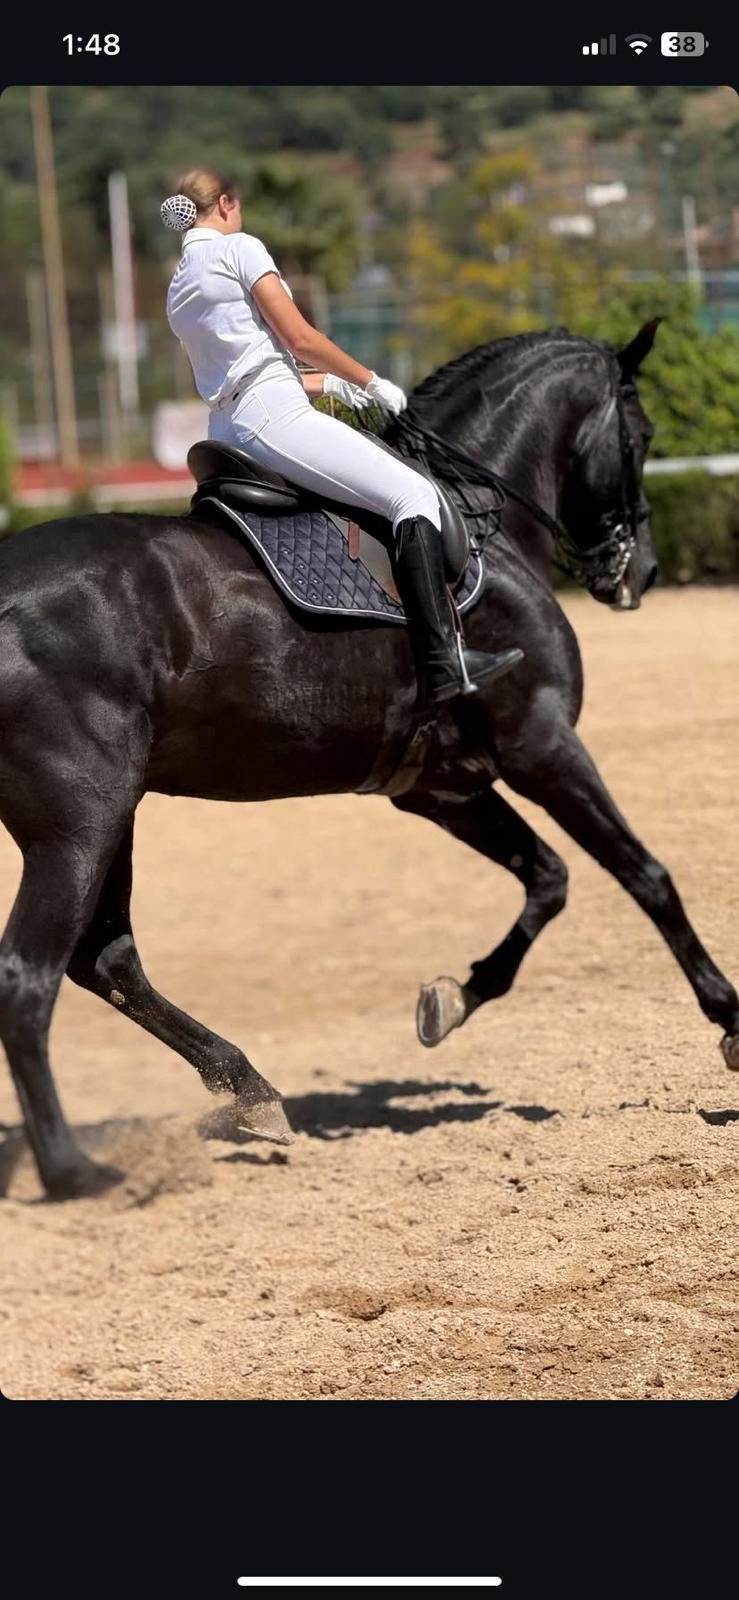
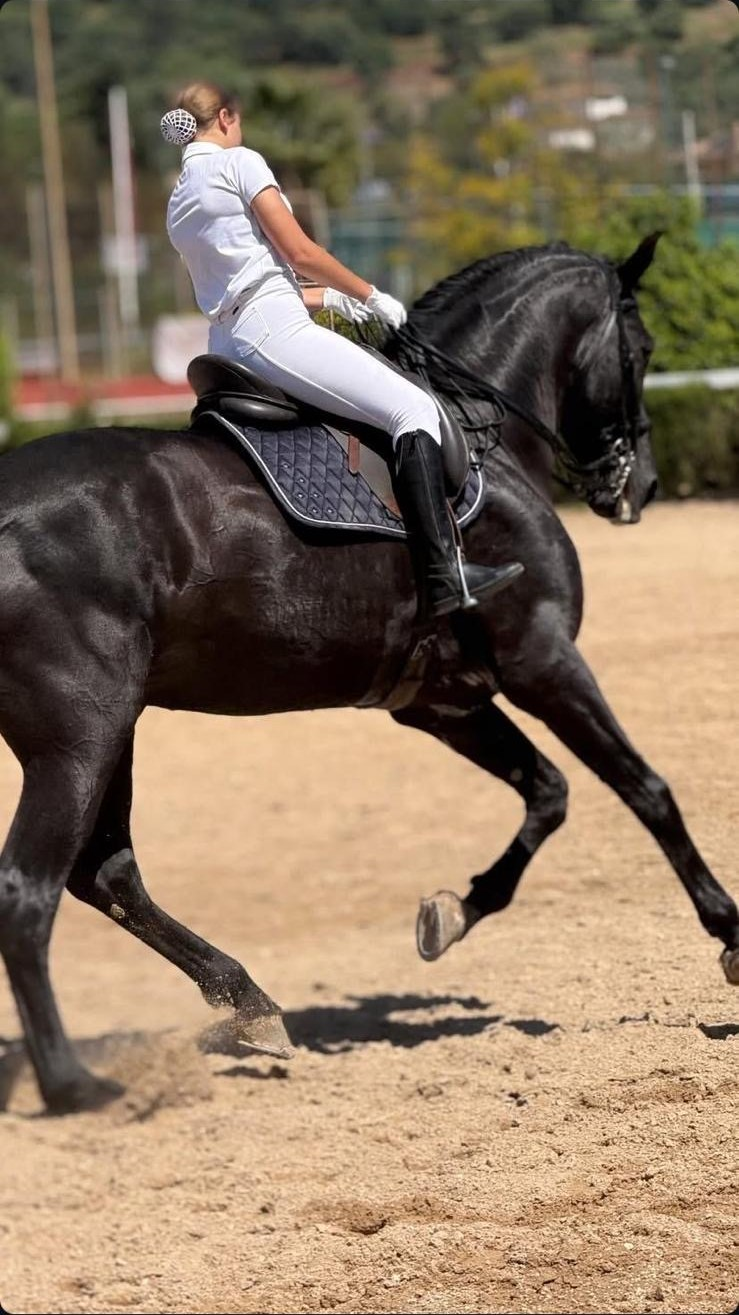
Recorta las barras del móvil en una foto de Provinciano y quita el botón de descendencia repetido en las fichas

diff --git a/js/principal.js b/js/principal.js
@@ -239,17 +239,13 @@ function pintarFicha(slug){
   const hijos = (c.descendencia || []).map(porSlug).filter(Boolean)
     .sort((a,b) => new Date(a.nacimiento) - new Date(b.nacimiento));
 
-  const enlaceHijos = c.cubriciones
-    ? '<a class="ver-arbol" href="' + RUTA + 'hijos-de-' + c.slug + '.html">' +
-      'Ver todos los hijos de ' + nombreCorto + '</a>' : '';
-
-  const bloqueHijos = (hijos.length || enlaceHijos) ? (
+  const bloqueHijos = hijos.length ? (
     '<section class="seccion-ficha"><div class="bloque"><h2>Descendencia en la yeguada</h2>' +
     '<div class="hijos">' + hijos.map(h =>
       '<a class="rama" href="' + RUTA + 'caballos/' + h.slug + '.html">' +
       '<div class="r">' + fechaLarga(h.nacimiento) + '</div>' +
       '<div class="v">' + h.nombre + '</div><div class="link">Ver su ficha →</div></a>').join('') +
-    '</div>' + enlaceHijos + '</div></section>') : '';
+    '</div></div></section>') : '';
 
   /* Todos los hijos inscritos en el Libro Genealógico, sean nuestros o no.
      Solo nombre, año, capa y el otro progenitor: ni microchip ni carta. */

diff --git a/rutas.html b/rutas.html
@@ -86,7 +86,7 @@
 <script>const RUTA = '';</script>
 <script src="datos/caballos.js?v=0223bc08"></script>
 <script src="datos/descendencia.js?v=ee8038dd"></script>
-<script src="js/principal.js?v=fea9235d"></script>
+<script src="js/principal.js?v=923ee47a"></script>
 <script>pintarCarrusel('galeria-rutas', [
   {tipo:'video', archivo:'video/rutas.mp4',              poster:'video/rutas-poster.jpg',           pie:'De ruta por la sierra'},
   {tipo:'foto',  archivo:'img/servicios/rutas-04.jpg',   pie:'Al paso por el campo'},

diff --git a/pupilaje-picadero.html b/pupilaje-picadero.html
@@ -91,7 +91,7 @@
 <script>const RUTA = '';</script>
 <script src="datos/caballos.js?v=0223bc08"></script>
 <script src="datos/descendencia.js?v=ee8038dd"></script>
-<script src="js/principal.js?v=fea9235d"></script>
+<script src="js/principal.js?v=923ee47a"></script>
 <script>pintarCarrusel('galeria-picadero', [
   {tipo:'foto', archivo:'img/servicios/picadero-01.jpg', pie:'Las instalaciones desde el aire'},
   {tipo:'foto', archivo:'img/servicios/pupilaje.jpg',    pie:'Caballos a pupilaje en el picadero'},

diff --git a/pupilaje-semilibertad.html b/pupilaje-semilibertad.html
@@ -87,7 +87,7 @@
 <script>const RUTA = '';</script>
 <script src="datos/caballos.js?v=0223bc08"></script>
 <script src="datos/descendencia.js?v=ee8038dd"></script>
-<script src="js/principal.js?v=fea9235d"></script>
+<script src="js/principal.js?v=923ee47a"></script>
 <script>pintarCarrusel('galeria-semi', [
   {tipo:'foto', archivo:'img/servicios/semilibertad-01.jpg', pie:'La finca de Villaharta'},
   {tipo:'foto', archivo:'img/servicios/semilibertad-02.jpg', pie:'En manada, en campo abierto'},

diff --git a/clases.html b/clases.html
@@ -83,7 +83,7 @@
 <script>const RUTA = '';</script>
 <script src="datos/caballos.js?v=0223bc08"></script>
 <script src="datos/descendencia.js?v=ee8038dd"></script>
-<script src="js/principal.js?v=fea9235d"></script>
+<script src="js/principal.js?v=923ee47a"></script>
 <script>pintarCarrusel('galeria-clases', [
   {tipo:'foto', archivo:'img/servicios/clases-03.jpg',   pie:'Siempre acompañados'},
   {tipo:'foto', archivo:'img/servicios/clases-01.jpg',   pie:'Primeros pasos, con casco'},

diff --git a/cubriciones.html b/cubriciones.html
@@ -94,7 +94,7 @@
 <script>const RUTA = '';</script>
 <script src="datos/caballos.js?v=0223bc08"></script>
 <script src="datos/descendencia.js?v=ee8038dd"></script>
-<script src="js/principal.js?v=fea9235d"></script>
+<script src="js/principal.js?v=923ee47a"></script>
 <script>pintarRejilla('rejilla', c => c.cubriciones);pintarEnlacesHijos('enlaces-hijos');</script>
 </body>
 </html>

diff --git a/nacidos-en-la-yeguada.html b/nacidos-en-la-yeguada.html
@@ -82,7 +82,7 @@
 <script>const RUTA = '';</script>
 <script src="datos/caballos.js?v=0223bc08"></script>
 <script src="datos/descendencia.js?v=ee8038dd"></script>
-<script src="js/principal.js?v=fea9235d"></script>
+<script src="js/principal.js?v=923ee47a"></script>
 <script>activarFiltros('rejilla', c => c.grupo === 'nacido-aqui');</script>
 </body>
 </html>

diff --git a/en-venta.html b/en-venta.html
@@ -66,7 +66,7 @@
 <script>const RUTA = '';</script>
 <script src="datos/caballos.js?v=0223bc08"></script>
 <script src="datos/descendencia.js?v=ee8038dd"></script>
-<script src="js/principal.js?v=fea9235d"></script>
+<script src="js/principal.js?v=923ee47a"></script>
 <script>pintarRejilla('rejilla', c => c.enVenta && !c.vendido);</script>
 </body>
 </html>

diff --git a/sementales.html b/sementales.html
@@ -82,7 +82,7 @@
 <script>const RUTA = '';</script>
 <script src="datos/caballos.js?v=0223bc08"></script>
 <script src="datos/descendencia.js?v=ee8038dd"></script>
-<script src="js/principal.js?v=fea9235d"></script>
+<script src="js/principal.js?v=923ee47a"></script>
 <script>activarFiltros('rejilla', c => c.grupo === 'semental');</script>
 </body>
 </html>

diff --git a/caballos/soberano-tres-treboles.html b/caballos/soberano-tres-treboles.html
@@ -42,7 +42,7 @@
 <script>const RUTA = '../';</script>
 <script src="../datos/caballos.js?v=0223bc08"></script>
 <script src="../datos/descendencia.js?v=ee8038dd"></script>
-<script src="../js/principal.js?v=fea9235d"></script>
+<script src="../js/principal.js?v=923ee47a"></script>
 <script>pintarFicha('soberano-tres-treboles');</script>
 </body>
 </html>

diff --git a/caballos/nervion-tres-treboles.html b/caballos/nervion-tres-treboles.html
@@ -42,7 +42,7 @@
 <script>const RUTA = '../';</script>
 <script src="../datos/caballos.js?v=0223bc08"></script>
 <script src="../datos/descendencia.js?v=ee8038dd"></script>
-<script src="../js/principal.js?v=fea9235d"></script>
+<script src="../js/principal.js?v=923ee47a"></script>
 <script>pintarFicha('nervion-tres-treboles');</script>
 </body>
 </html>

diff --git a/yeguas.html b/yeguas.html
@@ -82,7 +82,7 @@
 <script>const RUTA = '';</script>
 <script src="datos/caballos.js?v=0223bc08"></script>
 <script src="datos/descendencia.js?v=ee8038dd"></script>
-<script src="js/principal.js?v=fea9235d"></script>
+<script src="js/principal.js?v=923ee47a"></script>
 <script>activarFiltros('rejilla', c => c.grupo === 'yegua');</script>
 </body>
 </html>
